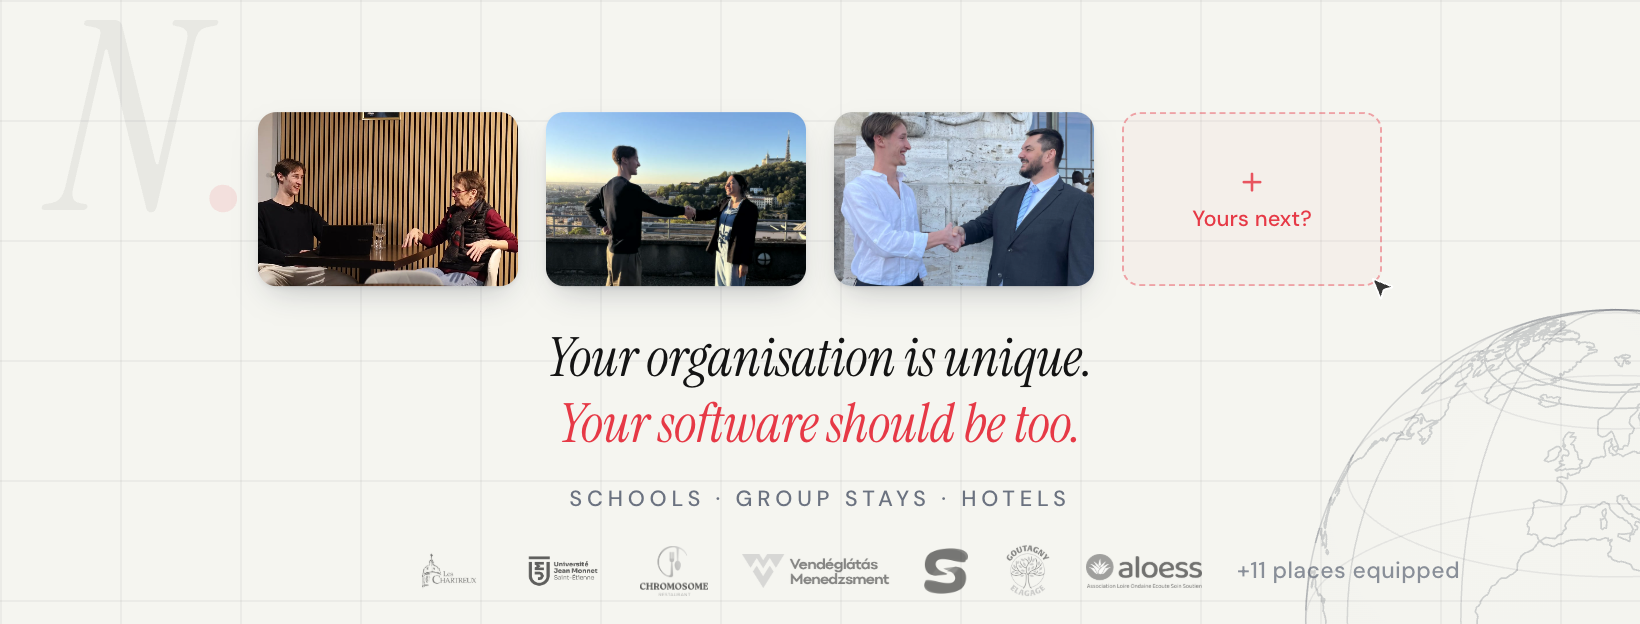
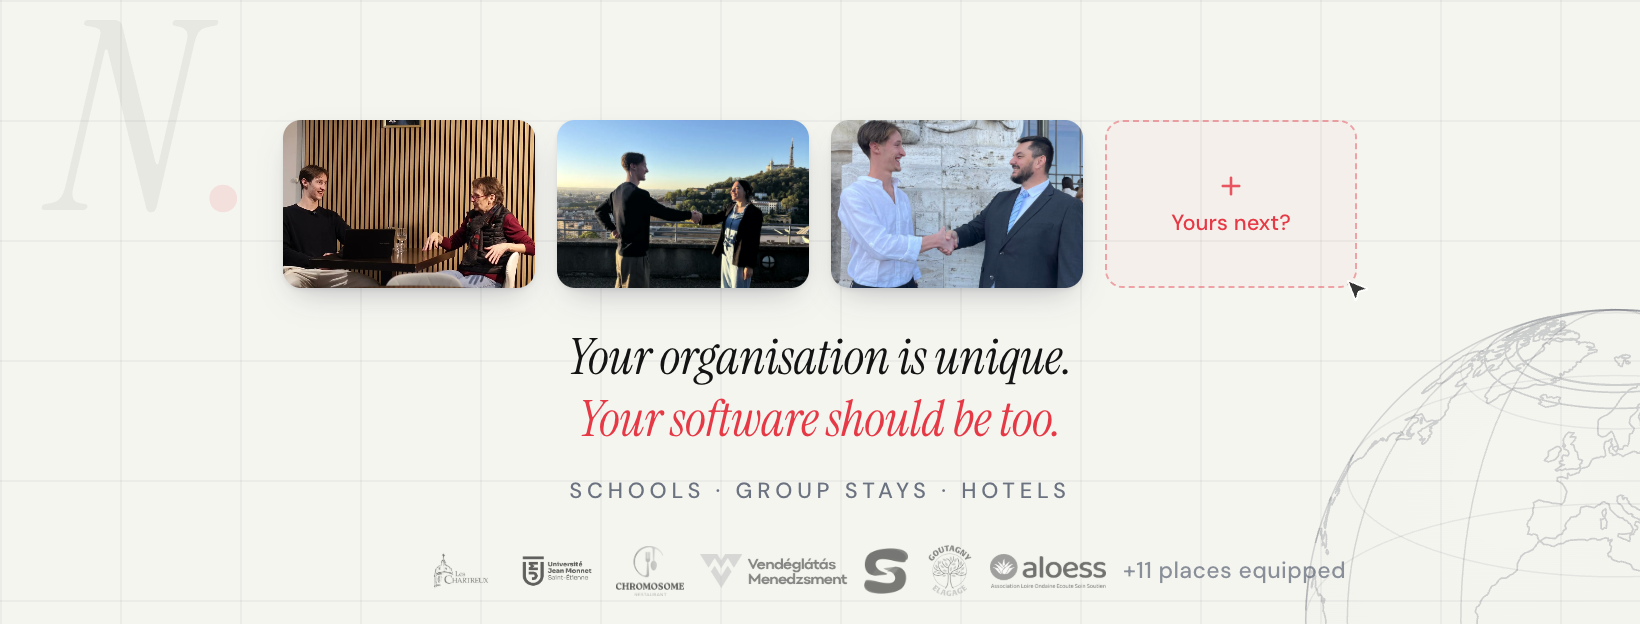
Les deux couvertures Facebook sont recomposées pour le mobile
⚠ LA ZONE SÛRE N'ÉTAIT PAS CELLE QUE JE CROYAIS, et les couvertures
étaient coupées sur téléphone. La documentation dit « environ 90 px
rognés de chaque côté » ; le calcul dit autre chose.

Facebook affiche 640x360 sur mobile contre 820x312 sur ordinateur. Pour
remplir une boîte plus haute, il AGRANDIT l'image de 15,4 % puis coupe
les côtés. Le rognage réel dans le fichier est donc de 133 points sur la
page et 146 sur le profil, pas 90. La largeur réellement sûre est de
555 et 560, pas 640.

Conséquence mesurée sur l'ancienne version : les cartes allaient de
x 129 à 691 sur la page et le titre de 143 à 708 sur le profil. Les deux
extrémités étaient coupées sur téléphone.

Tout est recomposé dans la vraie zone, et chaque élément est vérifié par
mesure, pas à l'œil : cartes, titre, ligne du bas, bande de logos. Les
cartes rétrécissent un peu sur la page, le titre du profil passe de 24
à 19 points et accepte de revenir à la ligne.

diff --git a/facebook-cover-humain.html b/facebook-cover-humain.html
@@ -51,11 +51,19 @@
 
   /* Le bloc central, cale sur le milieu du cadre et non sur un tiers :
      en 2,63:1, decentrer fait sortir de la zone sure. */
+  /* ⚠ TOUT TIENT DANS 555 POINTS, PAS 640. Recalcul fait le 4 octobre
+     2026, parce que la valeur de 90 px lue dans la documentation est
+     fausse. Facebook affiche 640 x 360 sur mobile contre 820 x 312 sur
+     ordinateur : pour remplir une boite plus haute, il AGRANDIT l'image
+     de 15,4 % puis coupe les cotes. Le rognage reel est donc de 133
+     points dans le fichier, pas 90, et la zone sure va de x 133 a 687.
+     Les cartes allaient de 129 a 691 : les deux des bords etaient
+     coupees sur mobile. */
   .stack { position: absolute; left: 410px; top: 50%; transform: translate(-50%, -50%);
-           display: flex; flex-direction: column; align-items: center; }
+           display: flex; flex-direction: column; align-items: center; max-width: 548px; }
 
-  .shots { display: flex; gap: 14px; }
-  .card { position: relative; width: 130px; height: 87px; border-radius: 9px; }
+  .shots { display: flex; gap: 11px; }
+  .card { position: relative; width: 126px; height: 84px; border-radius: 9px; }
   .card img { width: 100%; height: 100%; object-fit: cover; display: block; border-radius: 9px;
               filter: saturate(0.93) contrast(1.02);
               box-shadow: 0 7px 16px -6px rgba(15,23,42,.28), 0 1px 2px rgba(15,23,42,.07); }
@@ -72,7 +80,7 @@
      bandeau de logos de la banniere ecoles ne rentrent pas, et c'est
      tant mieux : a 820 points de large ils auraient fait de la bouillie. */
   h1 { font-family: 'Instrument Serif', Georgia, serif; font-style: italic; font-weight: 400;
-       font-size: 27px; line-height: 1.22; color: var(--text); letter-spacing: -0.2px;
+       font-size: 25px; line-height: 1.22; color: var(--text); letter-spacing: -0.2px;
        text-align: center; margin: 20px 0 0; }
   h1 .accent { color: var(--accent); }
   .cible { font-size: 11px; font-weight: 500; letter-spacing: 2.4px;
@@ -90,7 +98,7 @@
 
      ⚠ OPACITE BASSE ET NIVEAUX DE GRIS. C'est un fond, pas une
      deuxieme preuve qui se battrait avec les photos du dessus. */
-  .logos-fond { position: absolute; left: 206px; right: 90px; bottom: 13px;
+  .logos-fond { position: absolute; left: 212px; right: 147px; bottom: 13px;
                 display: flex; align-items: center; justify-content: space-between; }
   .fl { width: auto; max-width: 96px; object-fit: contain; display: block;
         filter: grayscale(100%); opacity: .62; }
@@ -99,7 +107,7 @@
                color: #6b7280; opacity: .78; white-space: nowrap; }
 
 
-  body.debug .zone { position: absolute; left: 90px; top: 0; width: 640px; height: 312px;
+  body.debug .zone { position: absolute; left: 133px; top: 0; width: 554px; height: 312px;
     outline: 2px dashed rgba(230,57,70,.55); }
   body.debug .pp { position: absolute; left: 20px; bottom: -40px; width: 170px; height: 170px;
     border-radius: 50%; outline: 2px dashed rgba(15,23,42,.45); background: rgba(15,23,42,.06); }

diff --git a/facebook-cover-perso.html b/facebook-cover-perso.html
@@ -44,20 +44,25 @@
            width: 300px; height: 300px; color: rgba(15,23,42,0.065); }
   .globe ellipse, .globe circle, .globe path { vector-effect: non-scaling-stroke; }
 
+  /* ⚠ TOUT TIENT DANS 560 POINTS, PAS 640. Meme recalcul que sur la
+     page : Facebook agrandit de 14,3 % pour remplir le 640 x 360 du
+     mobile, puis coupe 146 points de chaque cote dans le fichier. La
+     zone sure va de x 146 a 706. Le titre allait de 143 a 708 : ses
+     deux extremites etaient coupees sur mobile. */
   .stack { position: absolute; left: 425px; top: 50%; transform: translate(-50%, -50%);
-           display: flex; flex-direction: column; align-items: center; }
+           display: flex; flex-direction: column; align-items: center; max-width: 554px; }
 
   /* Trois photos et pas quatre : la carte « Yours next? » est un appel
      commercial, il appartient a la page, pas au profil d'une personne. */
-  .shots { display: flex; gap: 18px; }
-  .card { width: 168px; height: 112px; border-radius: 10px; }
+  .shots { display: flex; gap: 14px; }
+  .card { width: 174px; height: 116px; border-radius: 10px; }
   .card img { width: 100%; height: 100%; object-fit: cover; display: block; border-radius: 10px;
               filter: saturate(0.93) contrast(1.02);
               box-shadow: 0 8px 18px -7px rgba(15,23,42,.28), 0 1px 2px rgba(15,23,42,.07); }
 
   h1 { font-family: 'Instrument Serif', Georgia, serif; font-style: italic; font-weight: 400;
-       font-size: 24px; line-height: 1.2; color: var(--text); letter-spacing: -0.2px;
-       white-space: nowrap; margin: 20px 0 0; }
+       font-size: 19px; line-height: 1.25; color: var(--text); letter-spacing: -0.2px;
+       text-align: center; margin: 18px 0 0; }
   h1 .accent { color: var(--accent); }
 
   .sous { font-size: 10px; font-weight: 500; letter-spacing: 2.4px;
@@ -75,7 +80,7 @@
 
      ⚠ OPACITE BASSE ET NIVEAUX DE GRIS : c'est un fond, pas une
      deuxieme preuve qui se battrait avec les photos du dessus. */
-  .logos-fond { position: absolute; left: 212px; right: 105px; bottom: 14px;
+  .logos-fond { position: absolute; left: 218px; right: 160px; bottom: 14px;
                 display: flex; align-items: center; justify-content: space-between; }
   .fl { width: auto; max-width: 96px; object-fit: contain; display: block;
         filter: grayscale(100%); opacity: .62; }
@@ -84,7 +89,7 @@
                color: #6b7280; opacity: .78; white-space: nowrap; }
 
 
-  body.debug .zone { position: absolute; left: 105px; top: 0; width: 641px; height: 315px;
+  body.debug .zone { position: absolute; left: 146px; top: 0; width: 560px; height: 315px;
     outline: 2px dashed rgba(230,57,70,.55); }
   body.debug .pp { position: absolute; left: 24px; bottom: -42px; width: 176px; height: 176px;
     border-radius: 50%; outline: 2px dashed rgba(15,23,42,.45); background: rgba(15,23,42,.06); }
